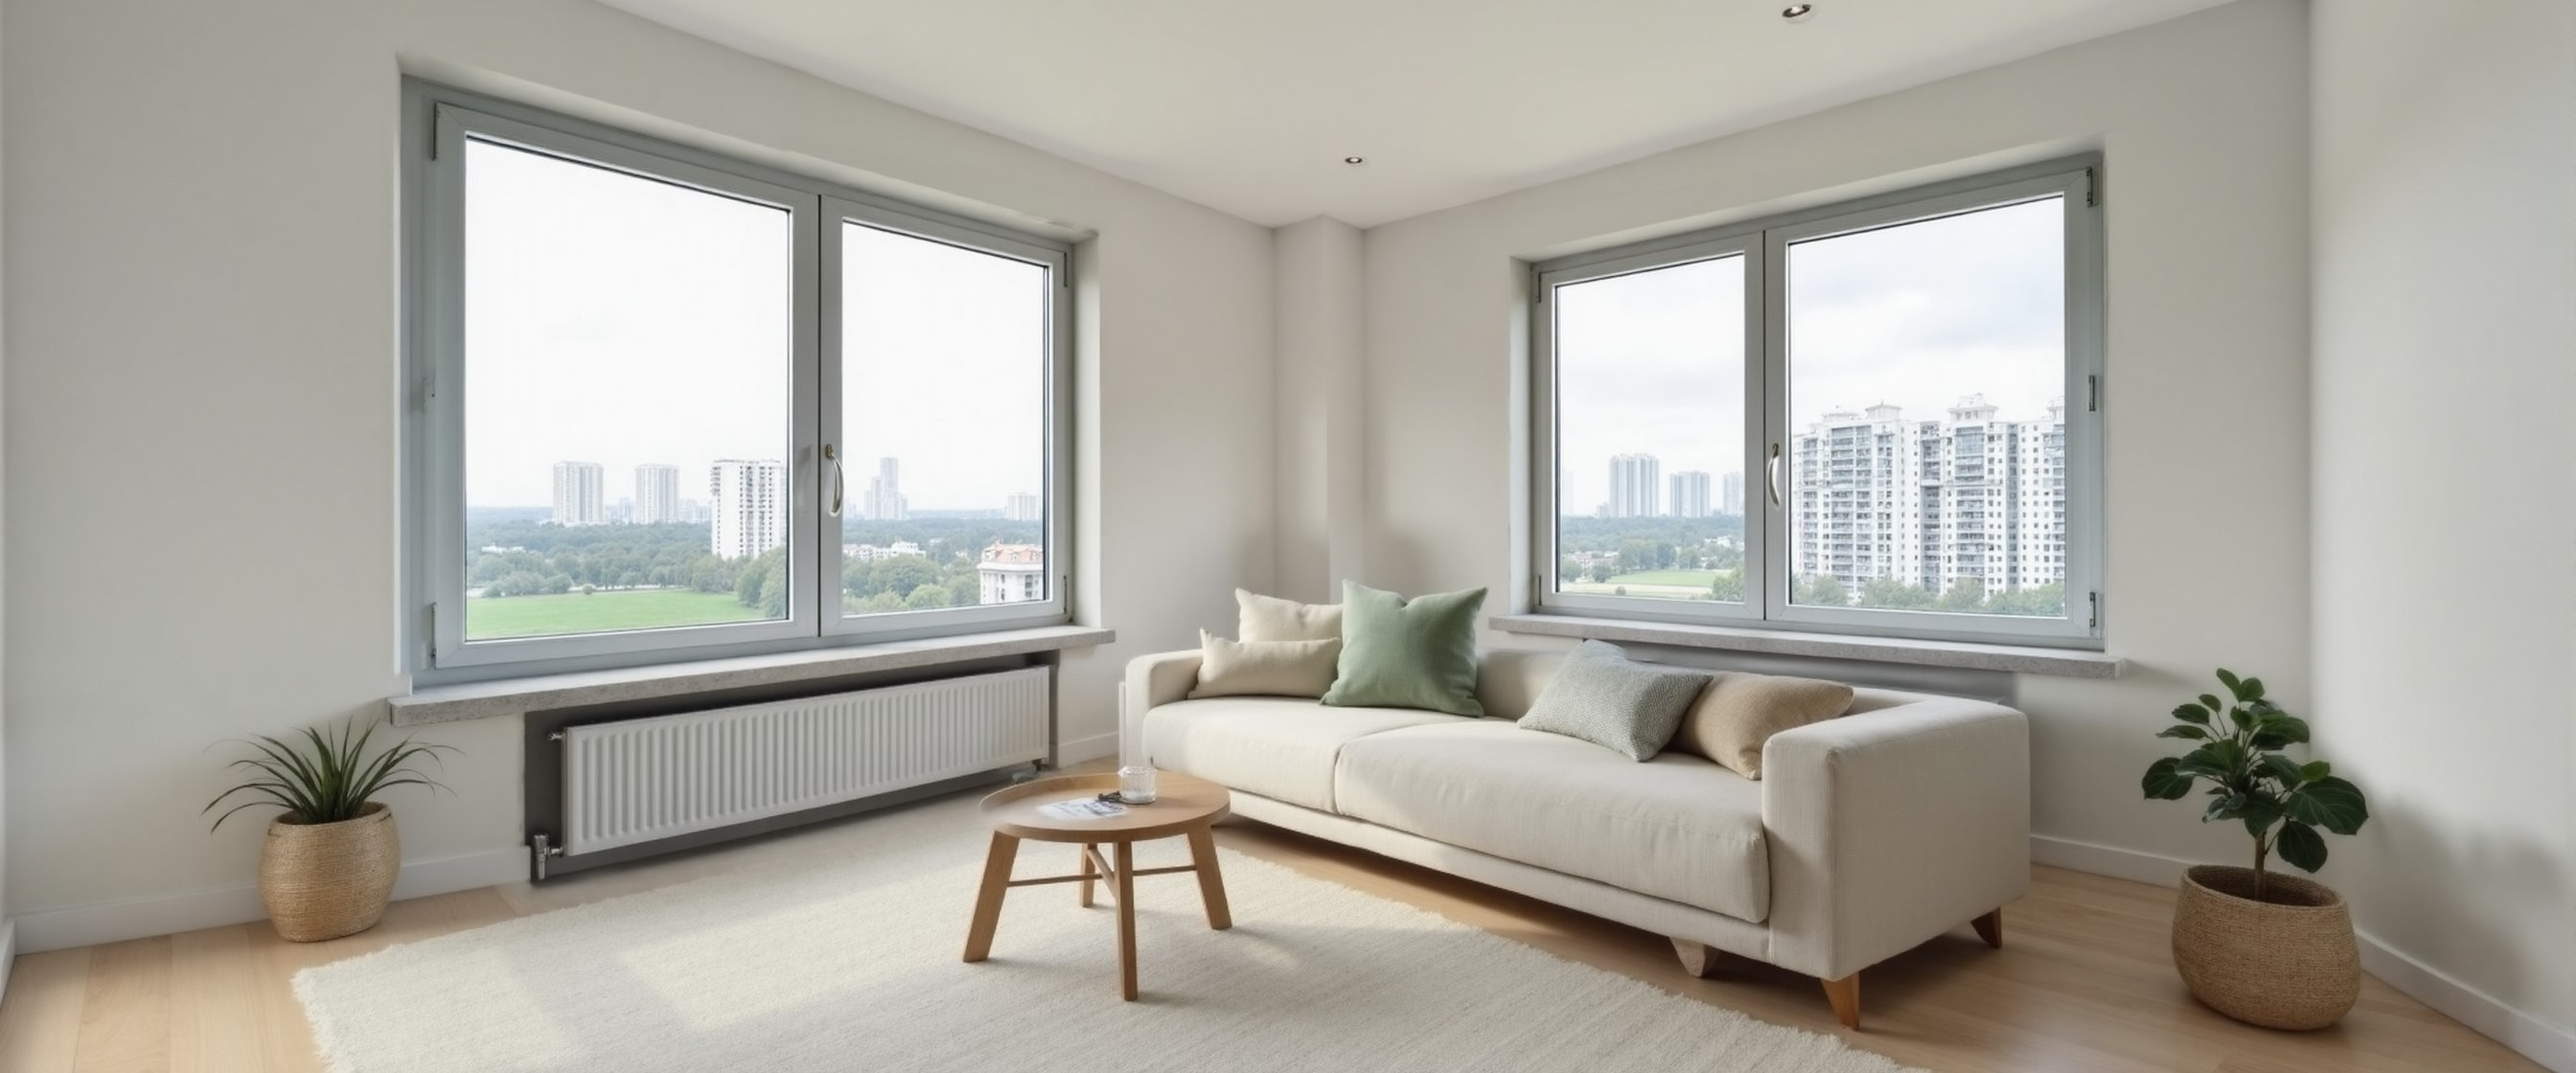
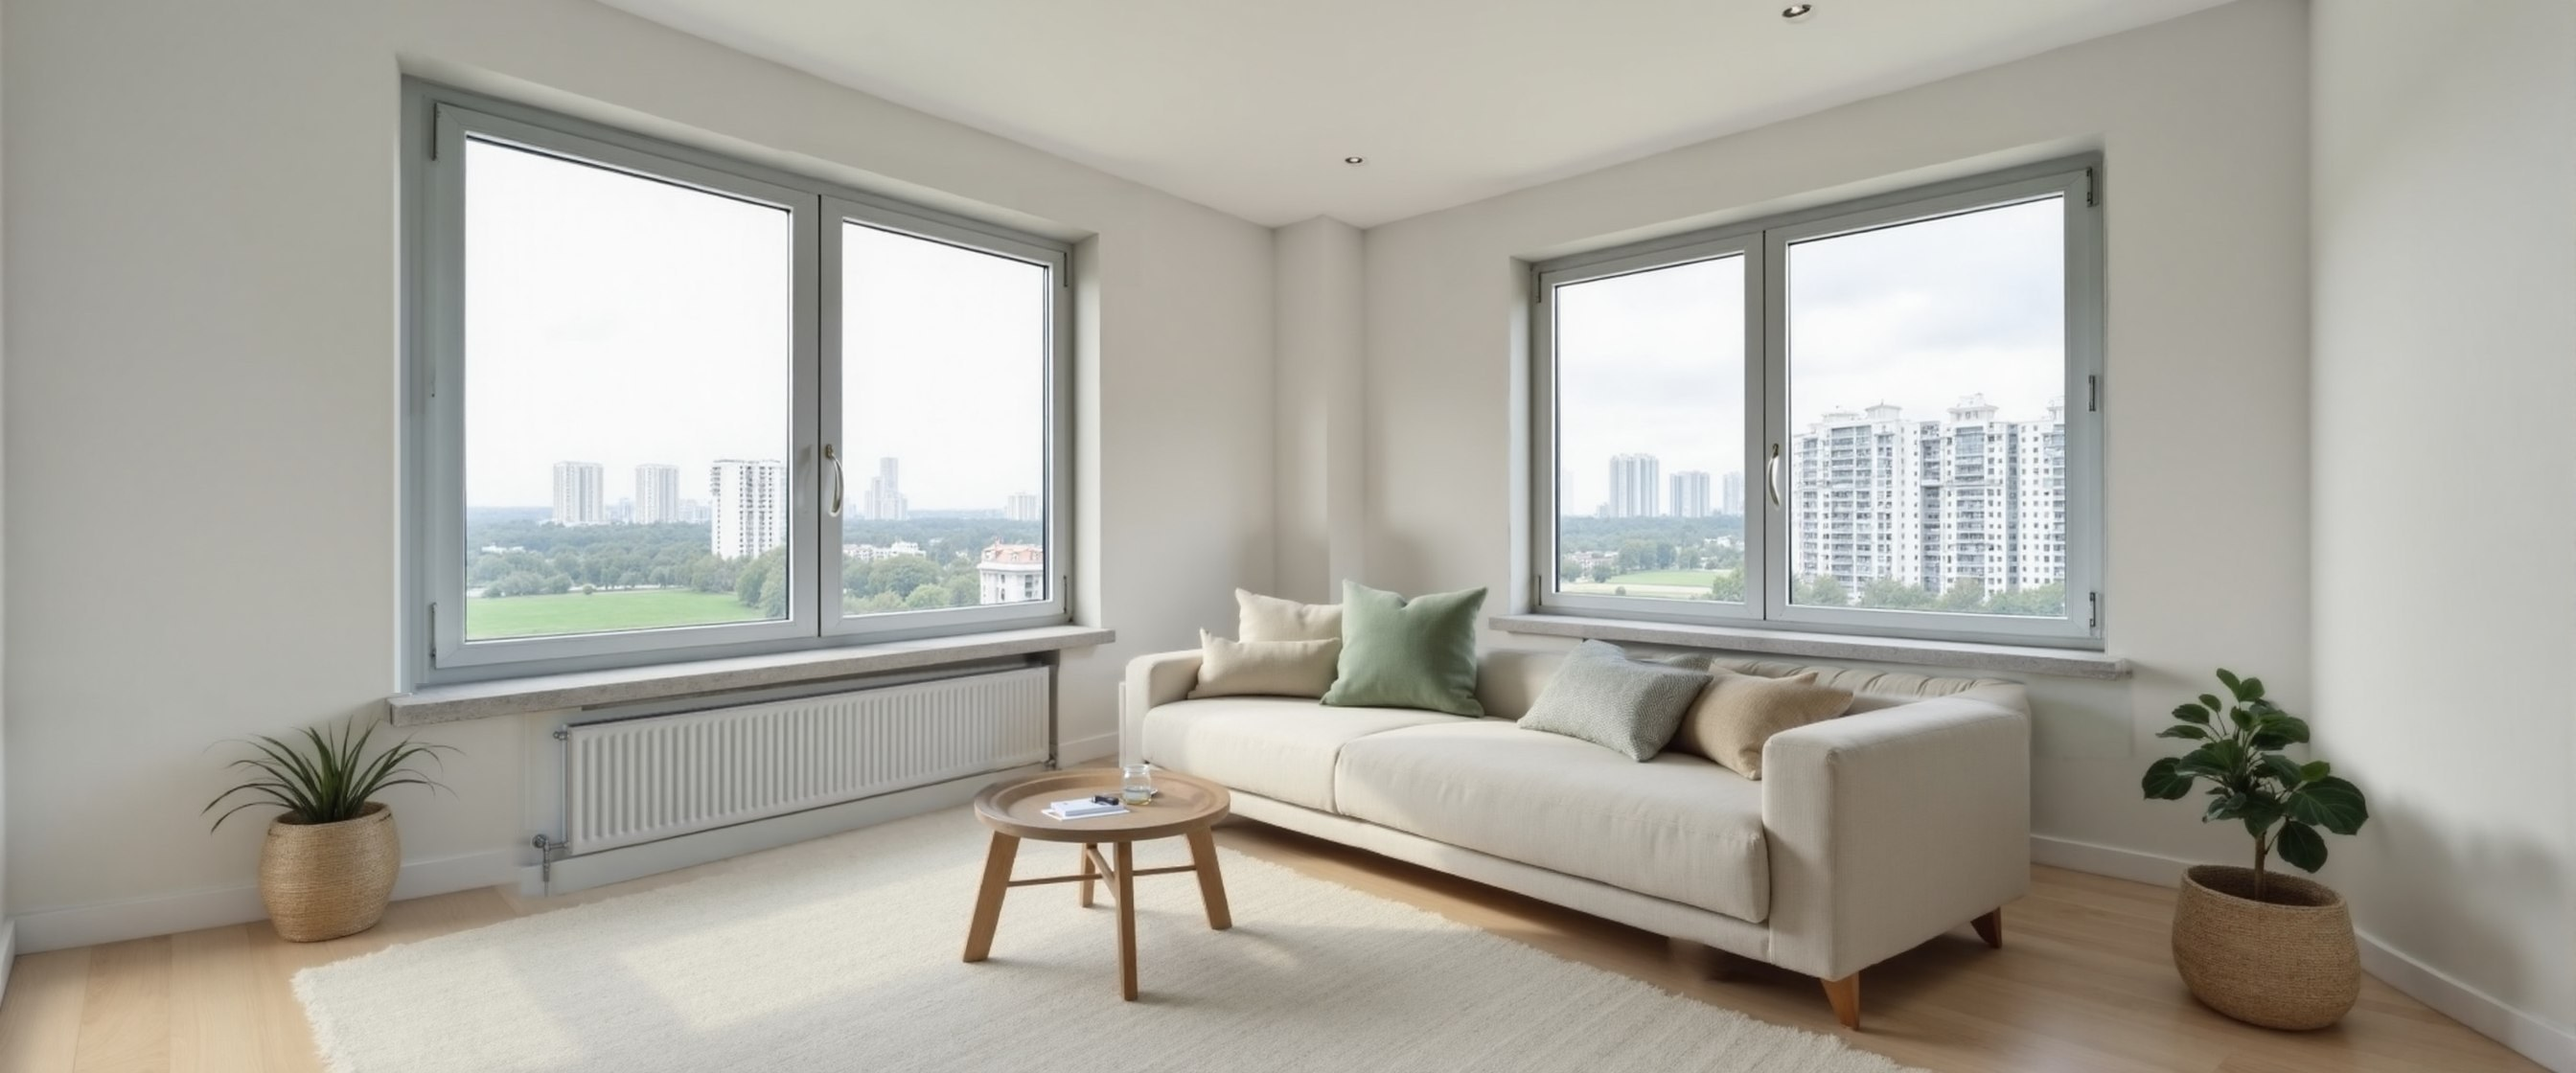
Фото «после»: чистая рама и откос левого окна, угол над окном, светлая стена вместо тёмной ниши за батареей, чёткий столик, спинка дивана за подушками, без лишней ножки; tools/flux_fix_region.py — точечная правка FLUX по маске

diff --git a/tools/flux_fix_region.py b/tools/flux_fix_region.py
@@ -1,0 +1,52 @@
+"""Точечная правка кадра через FLUX: вырезать кусок, увеличить, перерисовать по маске, вернуть и вклеить только маску.
+Usage: py -3 tools/flux_fix_region.py <src> <out> <crop x0,y0,x1,y1> <маска> "<prompt>" <denoise> [seed] [длинная сторона, по умолч. 1024]
+маска: многоугольники «x,y x,y …;x,y …», «rect:x0,y0,x1,y1», «ell:cx,cy,rx,ry» или «img:mask.png» (во весь кадр); несколько через «|». Координаты — в пикселях src.
+Кадр вне маски не меняется (пиксель в пиксель). Нужен запущенный ComfyUI (порт 8188) и tools/flux_masked_i2i.py."""
+import glob, os, subprocess, sys, time
+from PIL import Image, ImageDraw, ImageFilter
+
+COMFY = r'C:\AI\ComfyUI_windows_portable\ComfyUI'
+a = sys.argv
+src, out, box, mspec, prompt, den = a[1], a[2], [int(v) for v in a[3].split(',')], a[4], a[5], a[6]
+seed = a[7] if len(a) > 7 else ''
+longside = int(a[8]) if len(a) > 8 else 1024
+
+im = Image.open(src).convert('RGB')
+x0, y0, x1, y1 = box
+cw, ch = x1 - x0, y1 - y0
+s = longside / max(cw, ch)
+W, H = max(16, round(cw * s / 16) * 16), max(16, round(ch * s / 16) * 16)
+
+mask = Image.new('L', im.size, 0)
+d = ImageDraw.Draw(mask)
+for part in mspec.split('|'):
+    part = part.strip()
+    if part.startswith('img:'):   # готовая маска во весь кадр (белое — перерисовать)
+        mask.paste(255, (0, 0), Image.open(part[4:]).convert('L'))
+    elif part.startswith('rect:'):
+        d.rectangle([int(v) for v in part[5:].split(',')], fill=255)
+    elif part.startswith('ell:'):
+        cx, cy, rx, ry = [int(v) for v in part[4:].split(',')]
+        d.ellipse((cx - rx, cy - ry, cx + rx, cy + ry), fill=255)
+    else:
+        for poly in part.split(';'):
+            d.polygon([tuple(int(v) for v in p.split(',')) for p in poly.split()], fill=255)
+
+crop = im.crop(box).resize((W, H), Image.LANCZOS)
+mgrow = mask.filter(ImageFilter.MaxFilter(13)).crop(box).resize((W, H), Image.LANCZOS)   # для FLUX маска шире на ~6 px
+tag = f'fx{int(time.time())}'
+crop.save(os.path.join(COMFY, 'input', tag + '.png'))
+mgrow.convert('RGB').save(os.path.join(COMFY, 'input', tag + '_m.png'))
+r = subprocess.run([sys.executable, os.path.join(os.path.dirname(__file__), 'flux_masked_i2i.py'), tag + '.png', tag + '_m.png', tag, prompt, den, seed],
+                   capture_output=True, text=True, encoding='utf8')
+print(r.stdout.strip(), r.stderr.strip()[-500:])
+res = sorted(glob.glob(os.path.join(COMFY, 'output', tag + '_*.png')))
+if not res:
+    sys.exit('нет результата')
+gen = Image.open(res[-1]).convert('RGB').resize((cw, ch), Image.LANCZOS)
+soft = mask.filter(ImageFilter.GaussianBlur(2.5)).crop(box)
+patch = im.crop(box)
+patch.paste(gen, (0, 0), soft)
+im.paste(patch, (x0, y0))
+im.save(out)
+print('saved', out)
